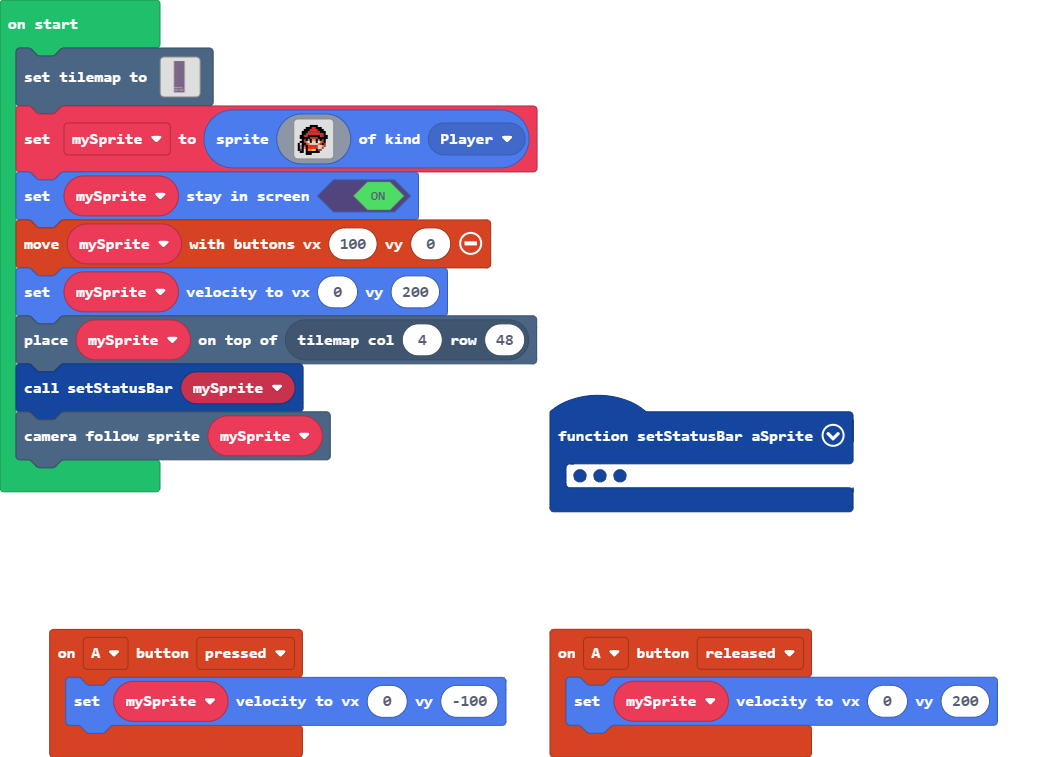
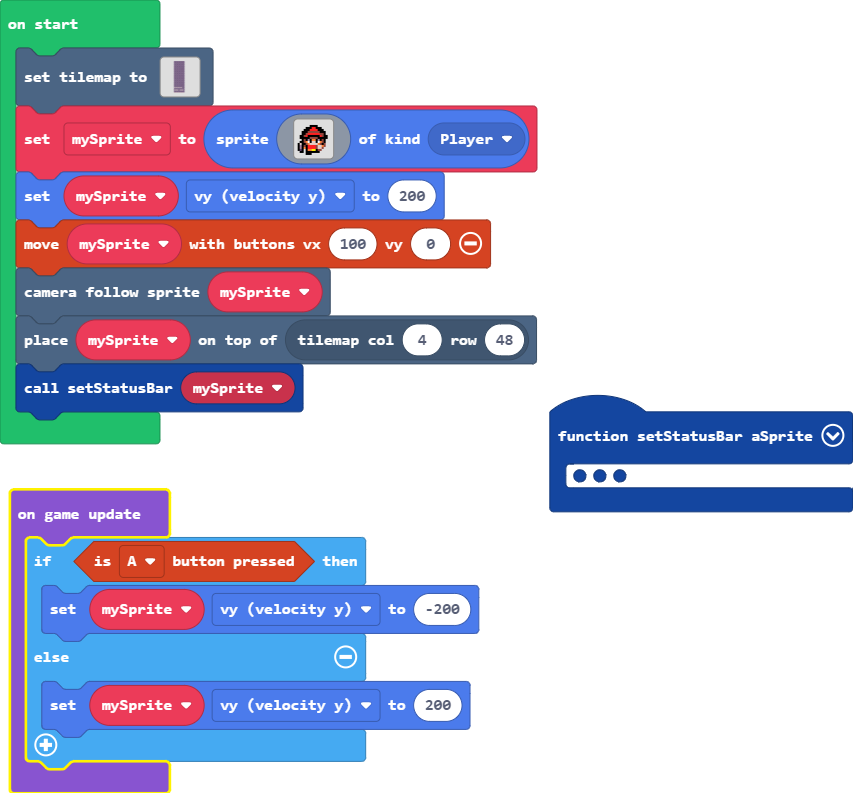
Update main.blocks, main.ts

diff --git a/main.ts b/main.ts
@@ -1,18 +1,11 @@
-controller.A.onEvent(ControllerButtonEvent.Pressed, function () {
-    mySprite.setVelocity(0, -100)
-})
-controller.A.onEvent(ControllerButtonEvent.Released, function () {
-    mySprite.setVelocity(0, 200)
-})
 function setStatusBar (aSprite: Sprite) {
     statusbar = statusbars.create(20, 4, StatusBarKind.Health)
     statusbar.value = 100
     statusbar.attachToSprite(aSprite, 10, 0)
 }
 let statusbar: StatusBarSprite = null
-let mySprite: Sprite = null
 tiles.setTilemap(tilemap`level1`)
-mySprite = sprites.create(img`
+let mySprite = sprites.create(img`
     . . . . . . . . . . . . . . . . 
     . . . . . . f f f f . . . . . . 
     . . . . f f f 2 2 f f f . . . . 
@@ -30,9 +23,15 @@ mySprite = sprites.create(img`
     . f f . f f f f f f f . . . . . 
     . . . . f f f . . . . . . . . . 
     `, SpriteKind.Player)
-mySprite.setStayInScreen(true)
+mySprite.vy = 200
 controller.moveSprite(mySprite, 100, 0)
-mySprite.setVelocity(0, 200)
+scene.cameraFollowSprite(mySprite)
 tiles.placeOnTile(mySprite, tiles.getTileLocation(4, 48))
 setStatusBar(mySprite)
-scene.cameraFollowSprite(mySprite)
+game.onUpdate(function () {
+    if (controller.A.isPressed()) {
+        mySprite.vy = -200
+    } else {
+        mySprite.vy = 200
+    }
+})
